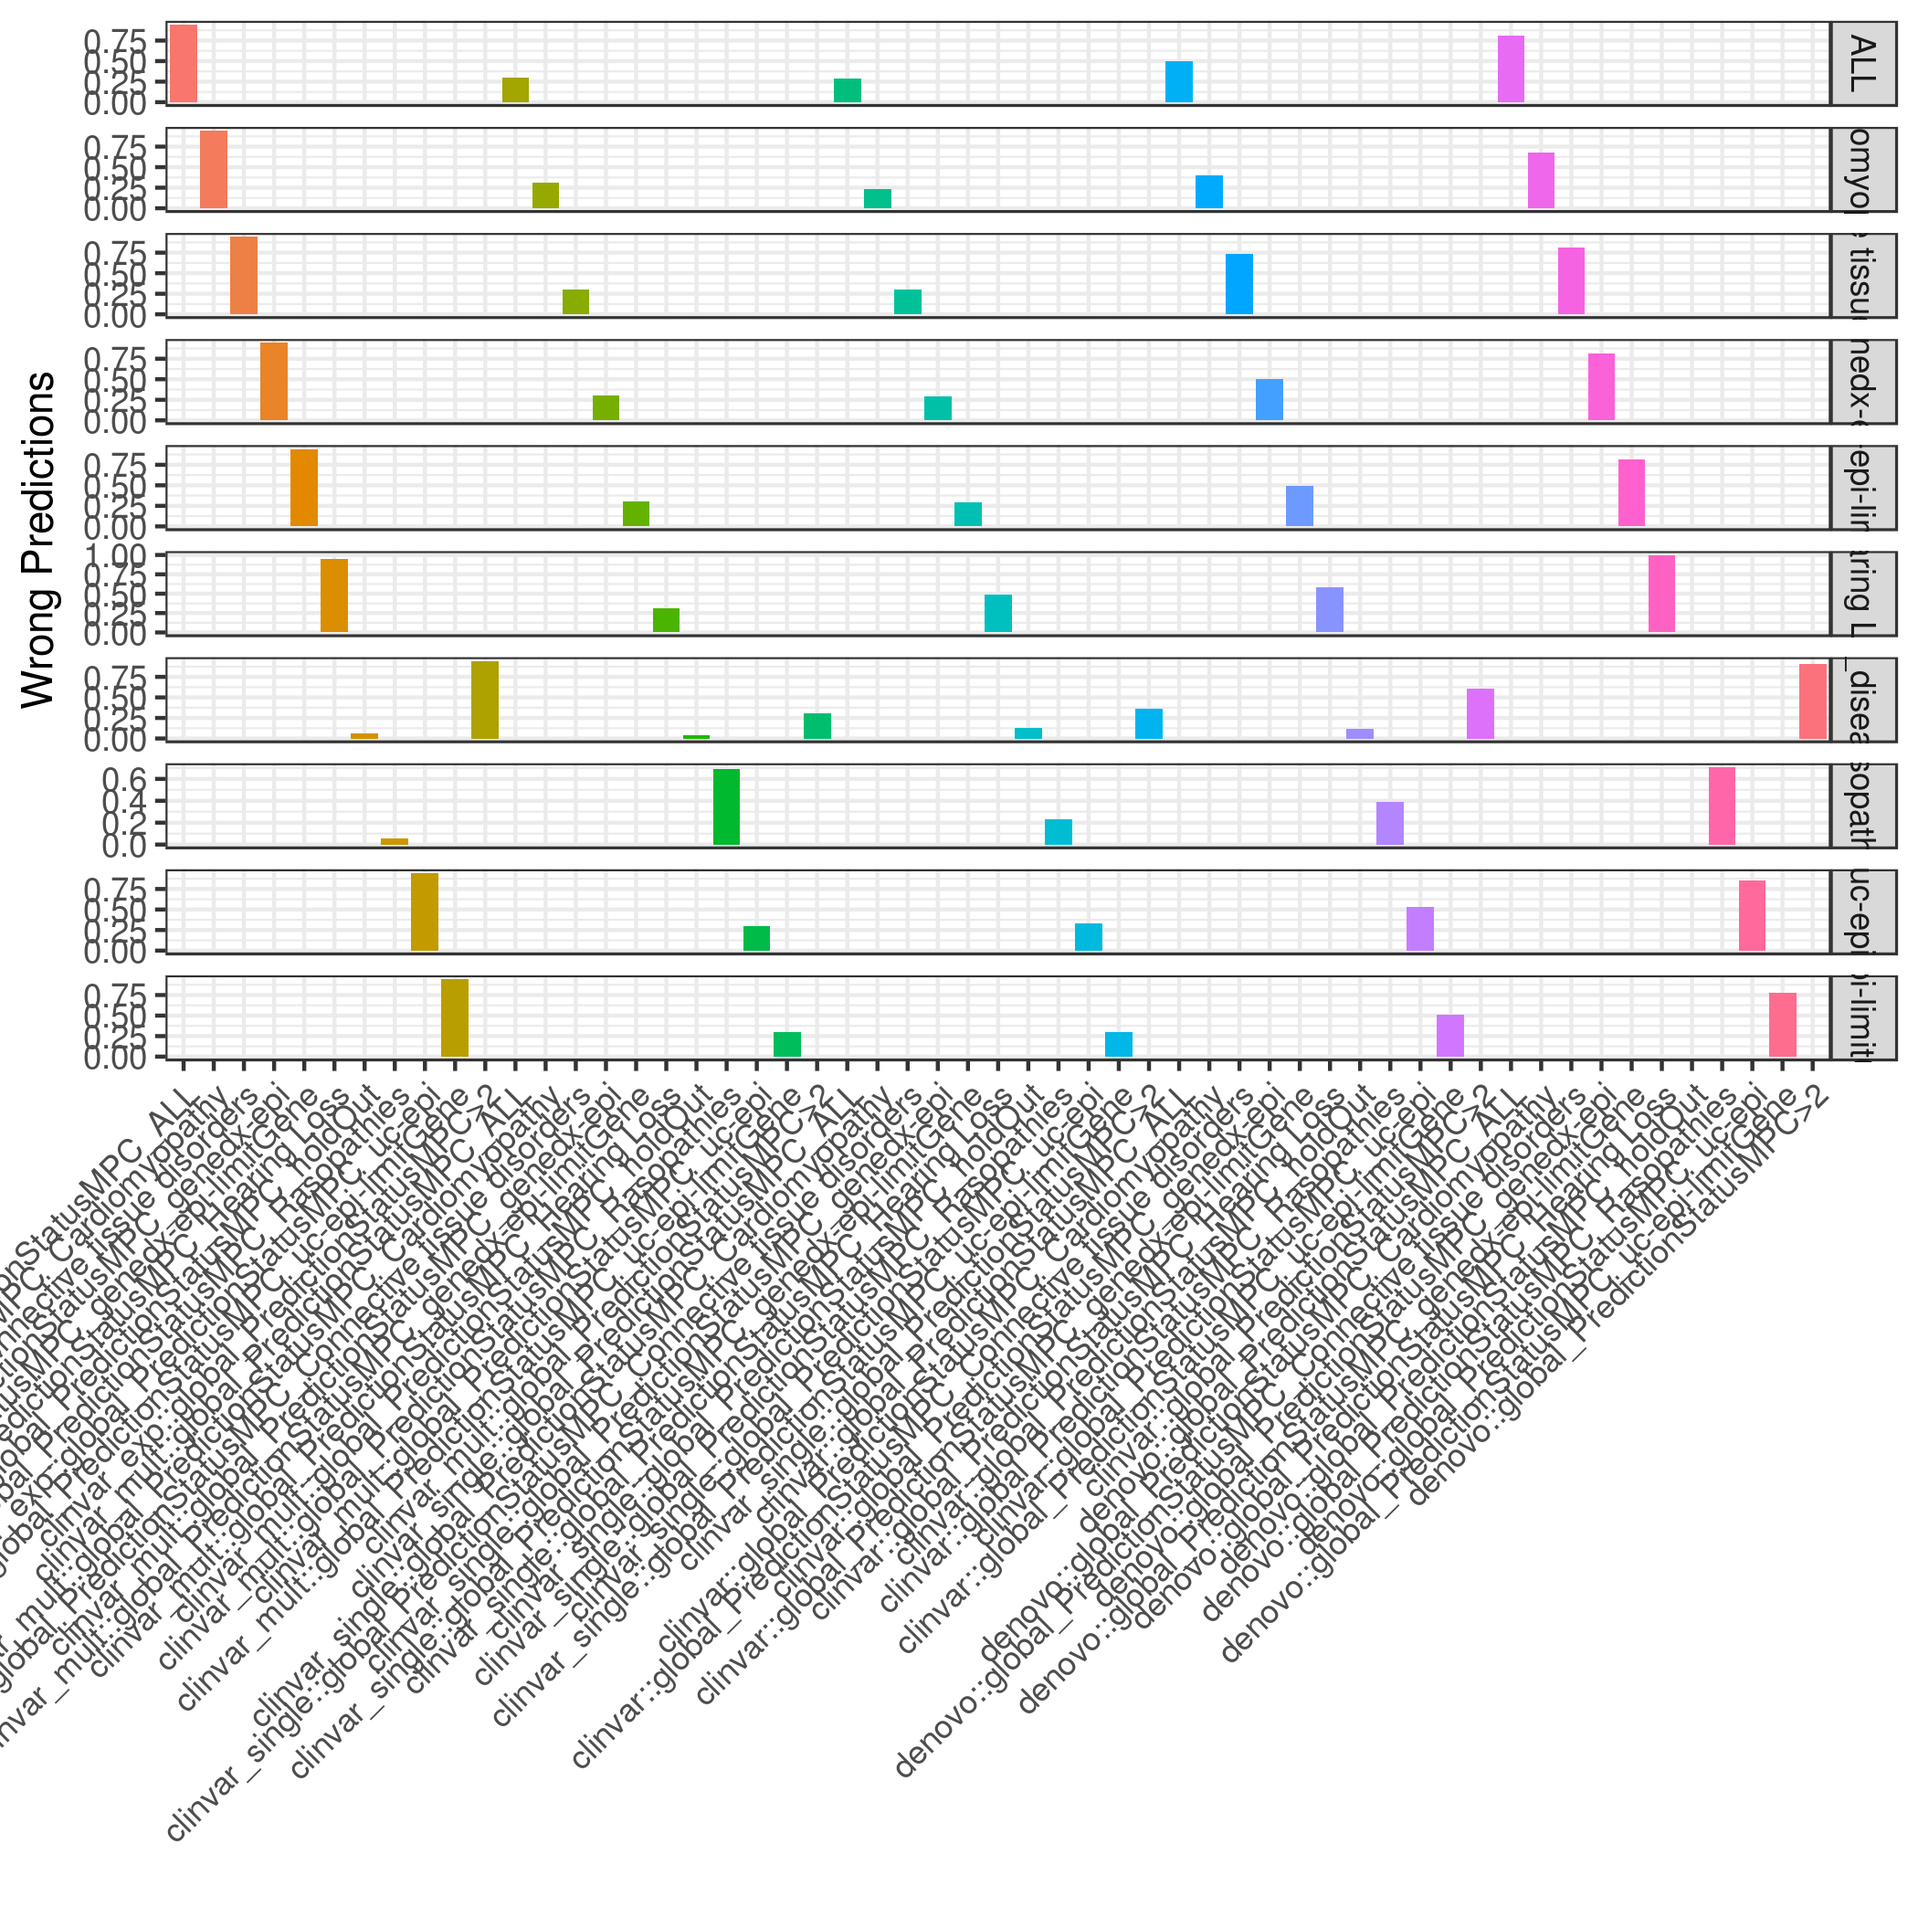
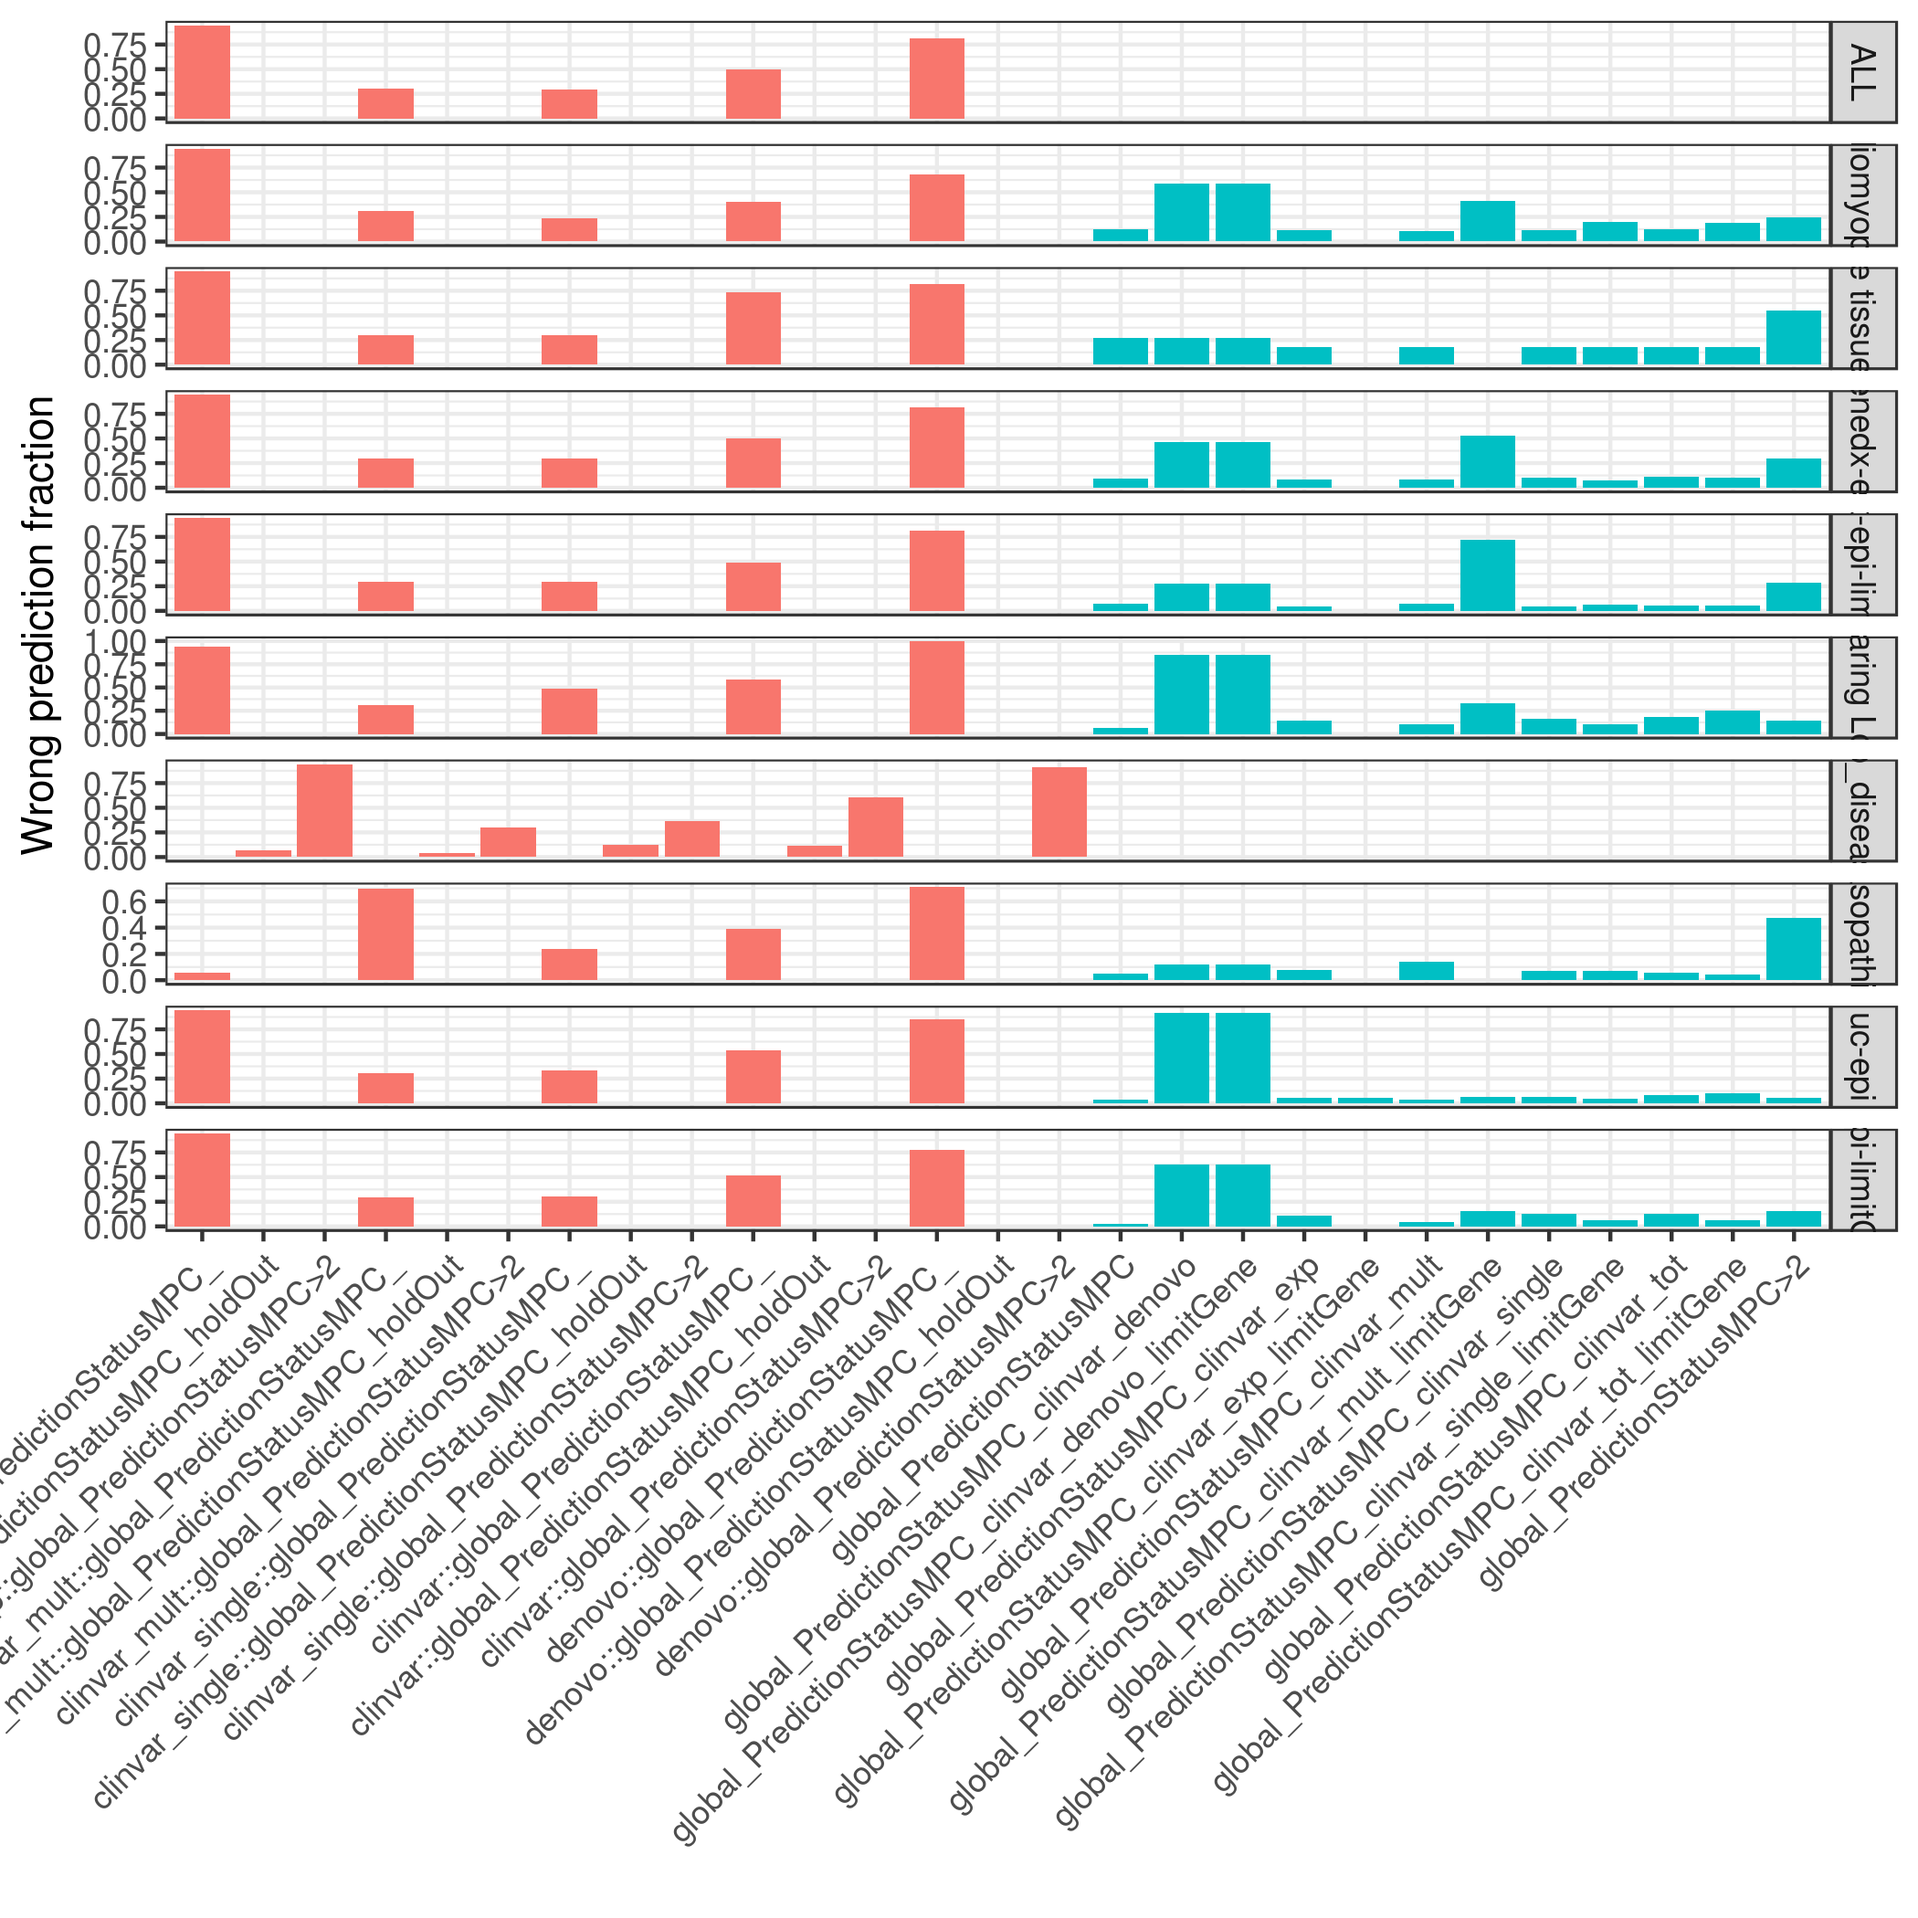
ahmda plots group by disease

diff --git a/src/rules/sf_eval_ahmad.py b/src/rules/sf_eval_ahmad.py
@@ -11,11 +11,10 @@ rule percent_wrong:
     output: o = WORK + '{method}.{cols}.eval_panel.eval.percentWrong'
     run:
         def calc_wrong_percent(rows):
-            print( len(rows) )
             tot_wrong = list(rows[rows.eval_type == 'TotWrong']['var_count'].values)[0]
             tot_preds = sum(rows[rows.eval_type != 'TotWrong']['var_count'])
-            print('tw', tot_wrong)
-            print('s', tot_preds)
+            # print('tw', tot_wrong)
+            # print('s', tot_preds)
             return tot_wrong/tot_preds
 
         def load_other_df(afile):
@@ -24,17 +23,18 @@ rule percent_wrong:
                         .apply(calc_wrong_percent)
                         .reset_index()
                         .rename(columns={0:'percent_wrong', 'score_type':'score_type_pre'}) )
-            panel_df['score_type'] = panel_df['clinvar_type'] + '::' + panel_df['score_type_pre']
-#            print(panel_df.head())
+            panel_df['st'] = panel_df.apply(lambda row: row['score_type_pre'].split(row['disease'])[0], axis=1)
+            panel_df['score_type'] = panel_df['clinvar_type'] + '::' + panel_df['st']
             return panel_df[['disease', 'percent_wrong', 'score_type']]
 
         non_panel_dfs = pd.concat( [load_other_df(afile) for afile in input.non_panel] )
+        non_panel_dfs['color'] = 'predict clinvar'
         panel_df = (pd.read_csv(input.panel, sep='\t')
                     .groupby(('disease', 'score_type'))
                     .apply(calc_wrong_percent)
                     .reset_index()
-                    .rename(columns={0:'percent_wrong'})
-                    .to_csv(output.o, index=False, sep='\t') )
+                    .rename(columns={0:'percent_wrong'}) )
+        panel_df['color'] = 'predict_panel'
         pd.concat([panel_df, non_panel_dfs]).to_csv(output.o, index=False, sep='\t')
 
 rule plot_ahmad:
@@ -45,9 +45,9 @@ rule plot_ahmad:
           require(ggplot2)
           d = read.delim("{input}", sep='\t', header=TRUE)
           p = ggplot(data=d) +
-          geom_col(aes(y=percent_wrong,x=score_type, fill=score_type)) +
+          geom_col(aes(y=percent_wrong,x=score_type, fill=color)) +
           facet_grid(disease~., scale='free') + theme_bw() +
-          ylab('Wrong Predictions') +
+          ylab('Wrong prediction fraction') +
           theme(axis.text.x = element_text(angle=45, hjust=1)) +
           xlab('') + theme(legend.position="none")
           ggsave("{output}", p)
